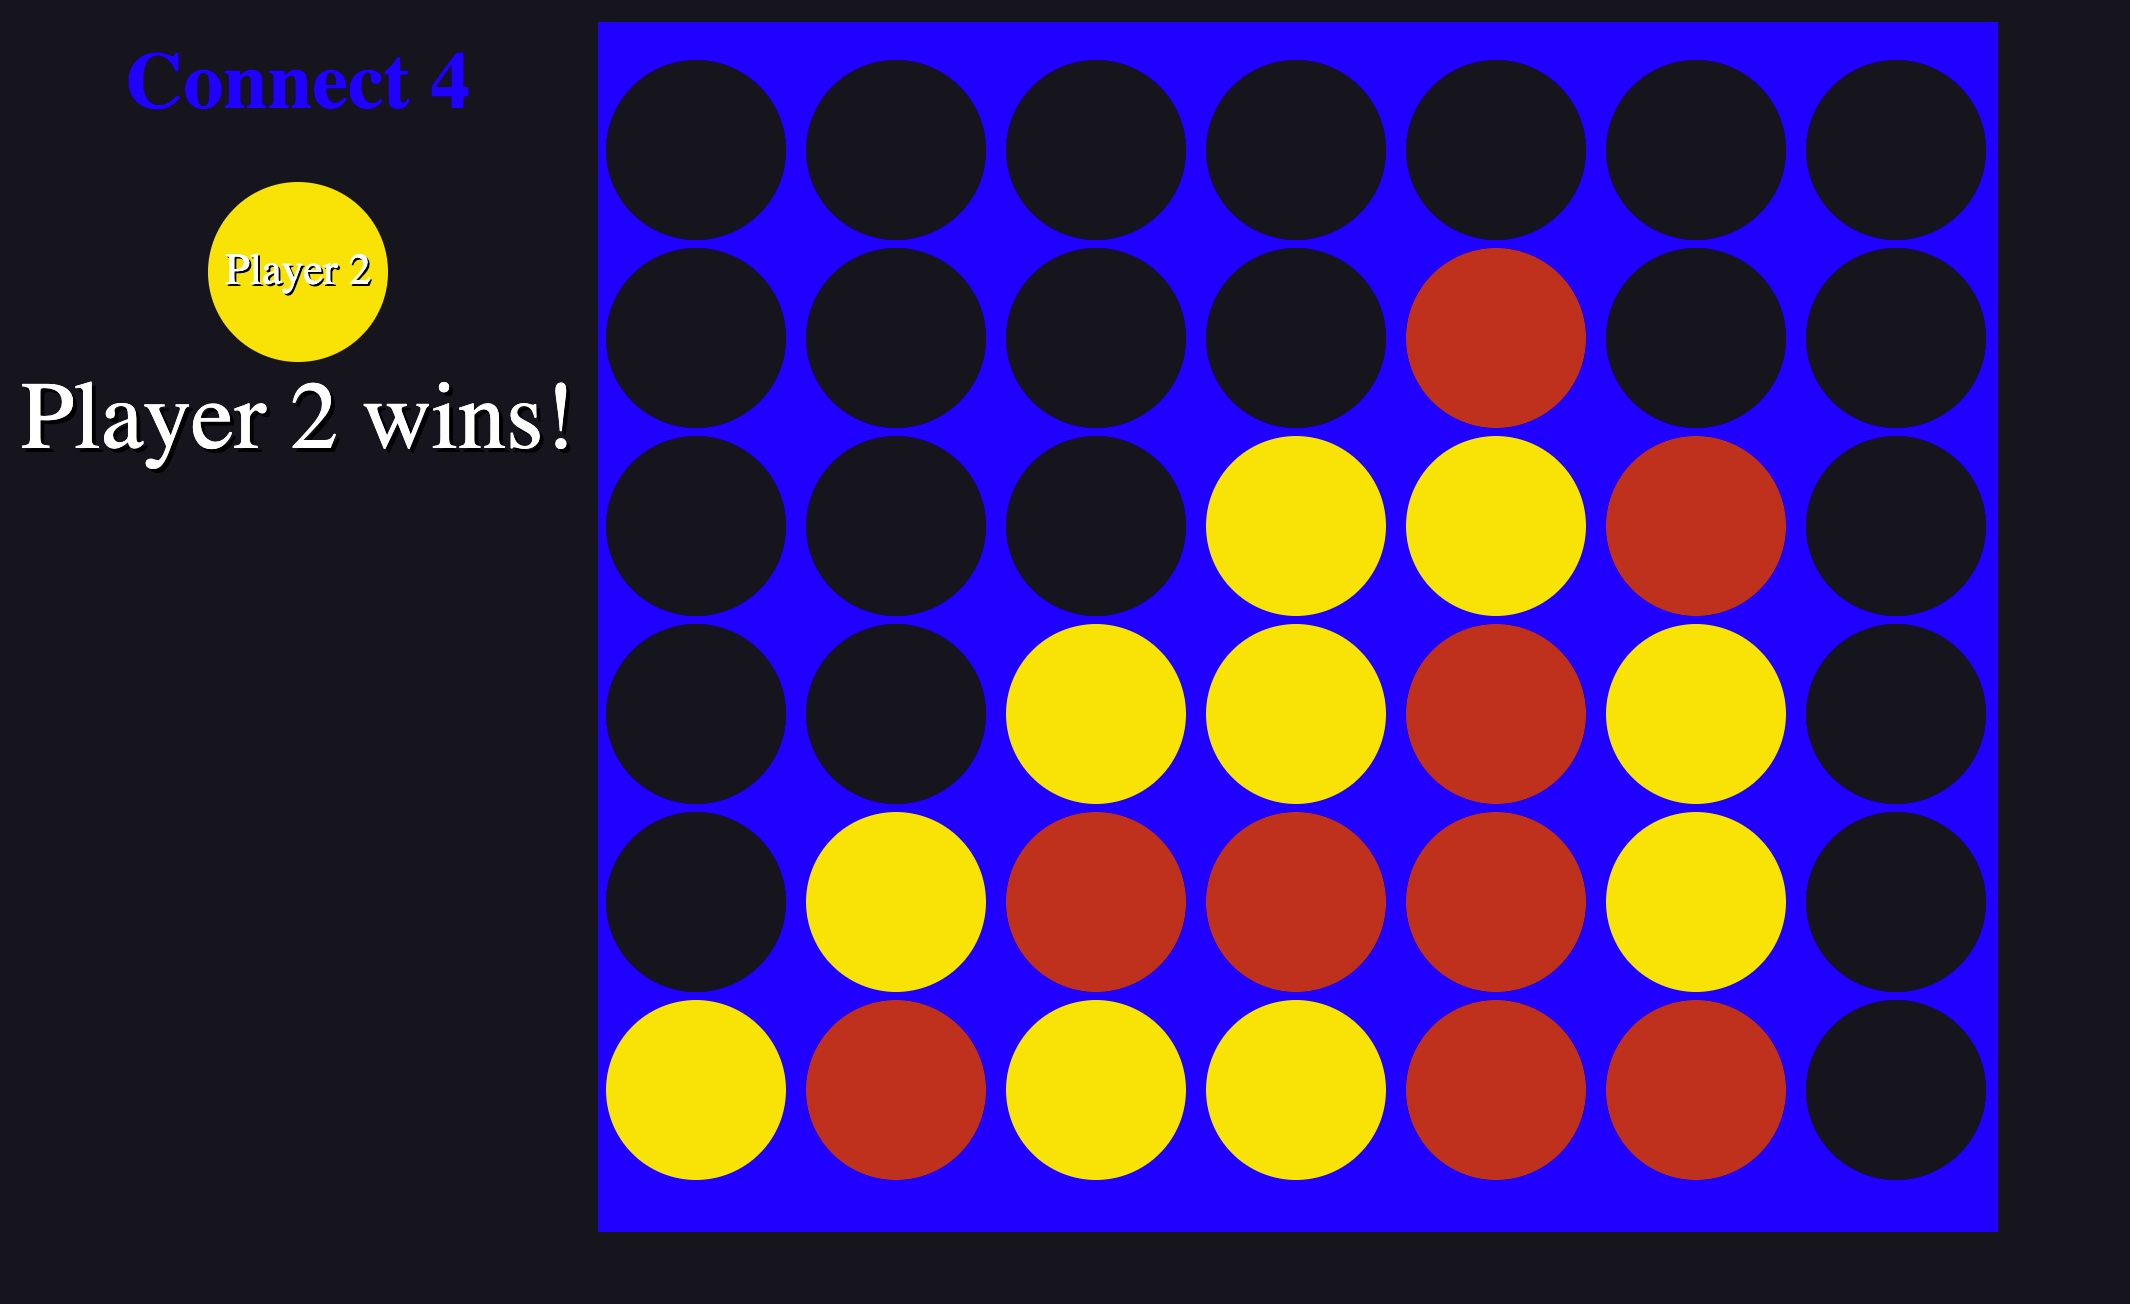
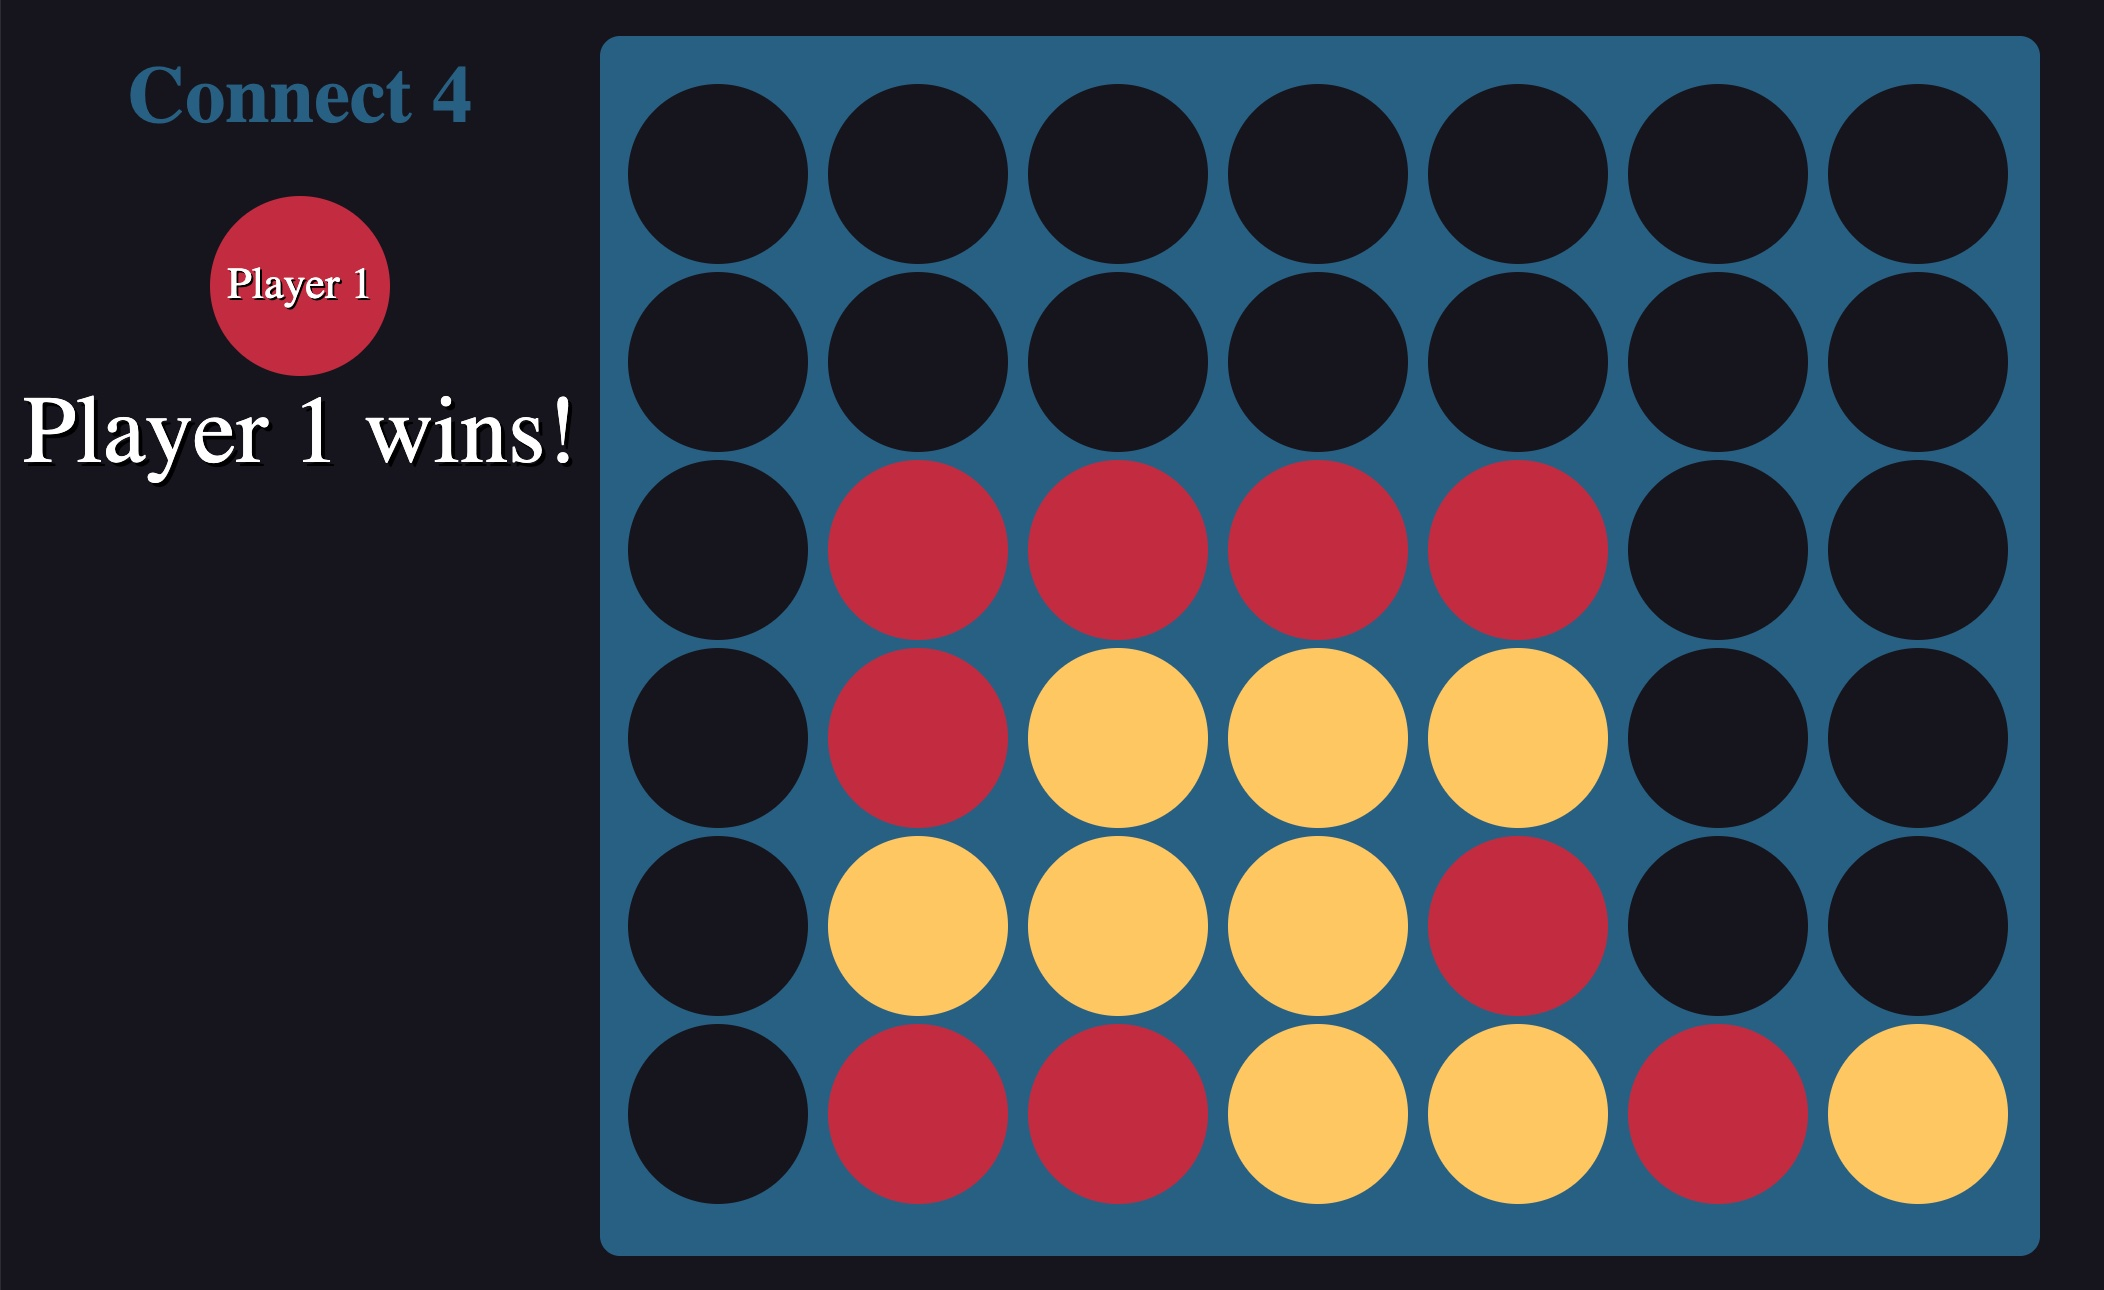
update the colors to be less harsh with coolors.co

diff --git a/connect4.css b/connect4.css
@@ -1,6 +1,13 @@
+/* 
+ * restyled with coolors.co 
+ *  blue:   #FFC857
+ *  yellow: #FFC857
+ *  red:    #C5283D
+ *  background: #16151d;
+ * */
 body {
   background-color: #16151d;
-  color: blue;
+  color: #255F85;
   margin: auto;
 }
 
@@ -45,15 +52,18 @@ body {
   margin-right: auto;
   text-align: center;
   width: 710px;
+  background-color: #255F85;
+  padding-left: 10px;
+  border-radius: 10px;
 }
 
 
 .column {
-  padding-top: 15px;
+  padding-top: 20px;
   width: 100px;
   height: 590px;
   float: left;
-  background-color: blue;
+  background-color: #255F85;
 }
 
 .cell {
@@ -63,15 +73,15 @@ body {
   border-radius: 50%;
   margin-left: 4px;
   margin-top: 4px;
-  transition: background-color 0.3s;
+  transition: background-color 0.2s;
 }
 
 .cell.player1 {
-  background-color: #ce1313;
+  background-color: #C5283D;
 }
 
 .cell.player2 {
-  background-color: #ffe001;
+  background-color: #FFC857;
 }
 
 
